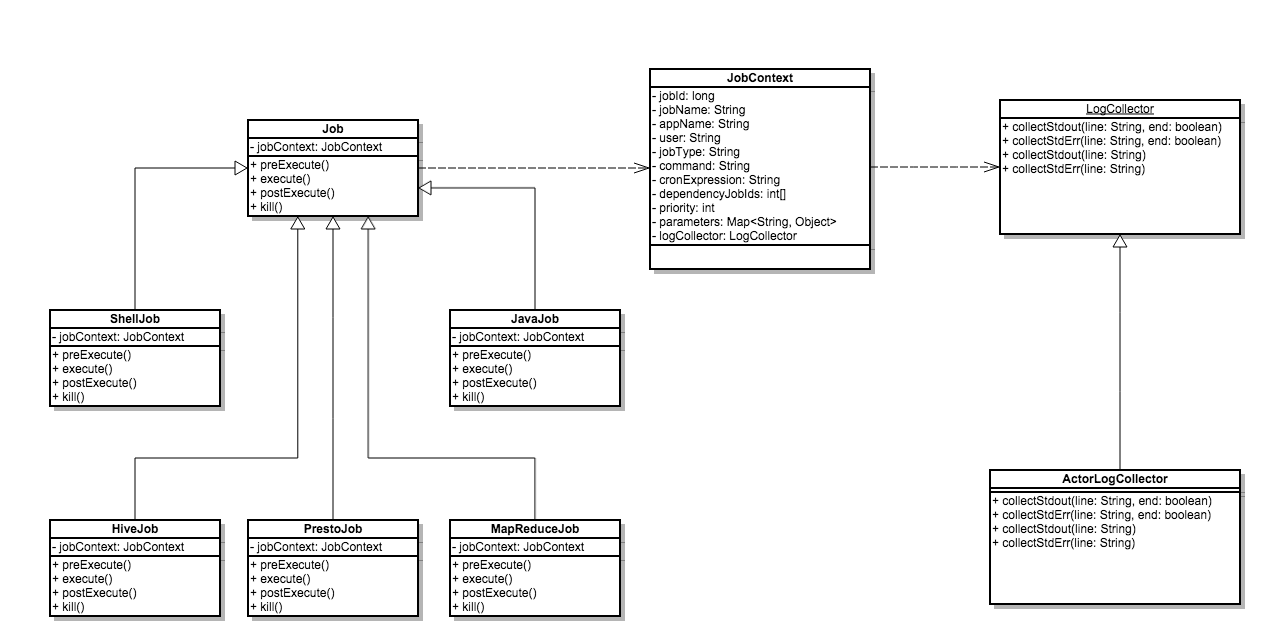
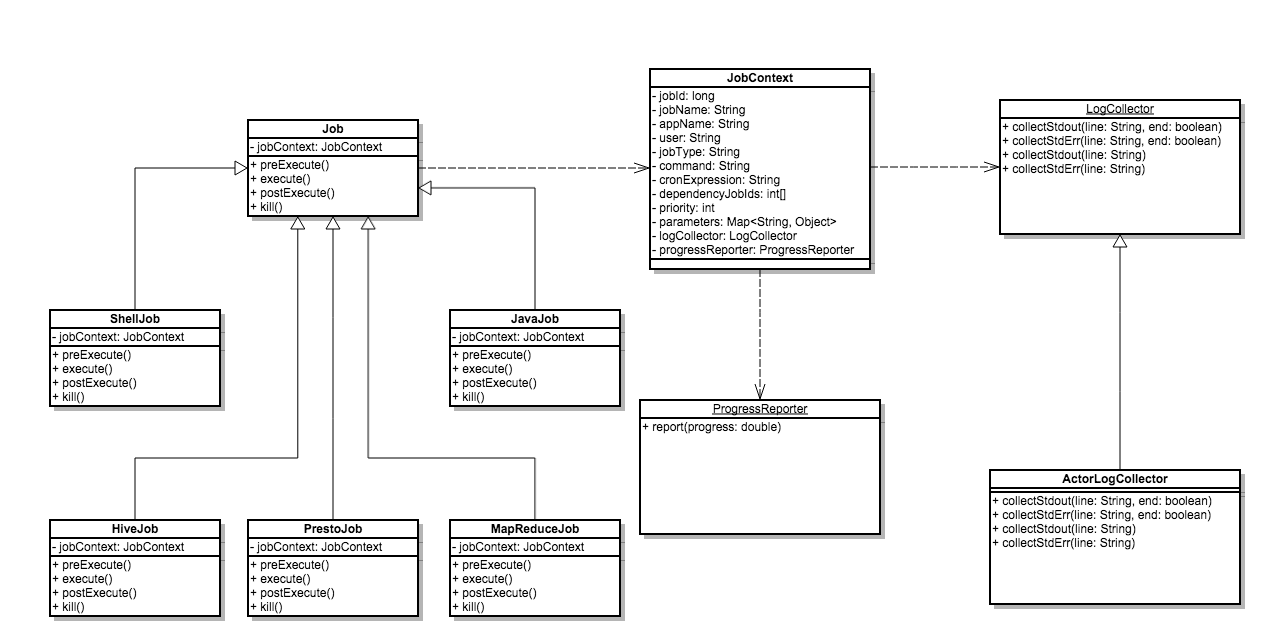
update jarvis2_detail_design.md

Changed region(s): [[0.4945, 0.6254, 0.7108, 0.8636], [0.5254, 0.3574, 0.6799, 0.4169]]

diff --git a/docs/design/jarvis2_detail_design.md b/docs/design/jarvis2_detail_design.md
@@ -132,7 +132,7 @@ Job为任务的抽象类，主要包括4个接口：preExecute()、execute()、p
 
 preExecute()：执行任务之前的预处理，如：数据库连接、数据清理等，此方法在execute()之前调用；
 
-execute()：任务的主要执行方法，具体执行内容在此方法中实现，如：执行HiveQL等。JobContext中包含了任务运行所需的输入参数，如：任务类型、执行命令、任务名称、扩展参数等。任务执行中输出的日志通过调用LogCollector的方法将日志发送给LogServer，LogServer收到后将日志持久化至存储系统中。此方法调用时向Server汇报”执行中“状态，执行完成时向Server汇报”成功“或”失败“状态。
+execute()：任务的主要执行方法，具体执行内容在此方法中实现，如：执行HiveQL等。JobContext中包含了任务运行所需的输入参数，如：任务类型、执行命令、任务名称、扩展参数等。任务执行中输出的日志通过调用LogCollector的方法将日志发送给LogServer，LogServer收到后将日志持久化至存储系统中。此方法调用时向Server汇报”执行中“状态，执行完成时向Server汇报”成功“或”失败“状态。执行过程中可调用ProgressReporter汇报任务进度。
 
 postExecute()：任务运行完成后的处理，如：报警等，此方法在execute()之后调用；
 
